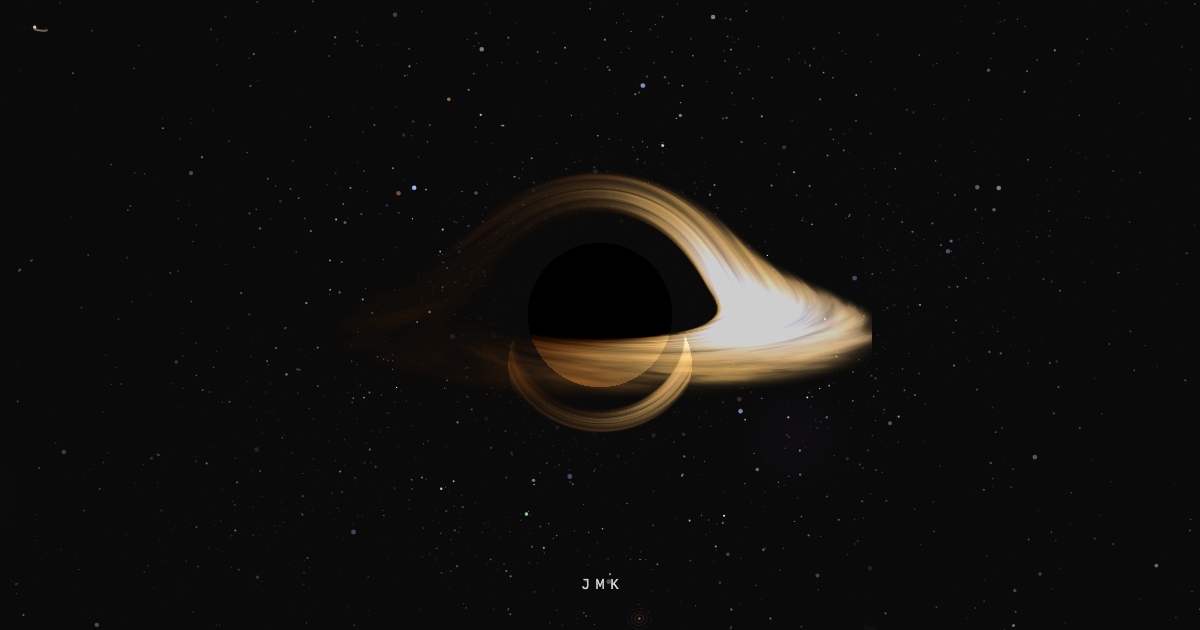
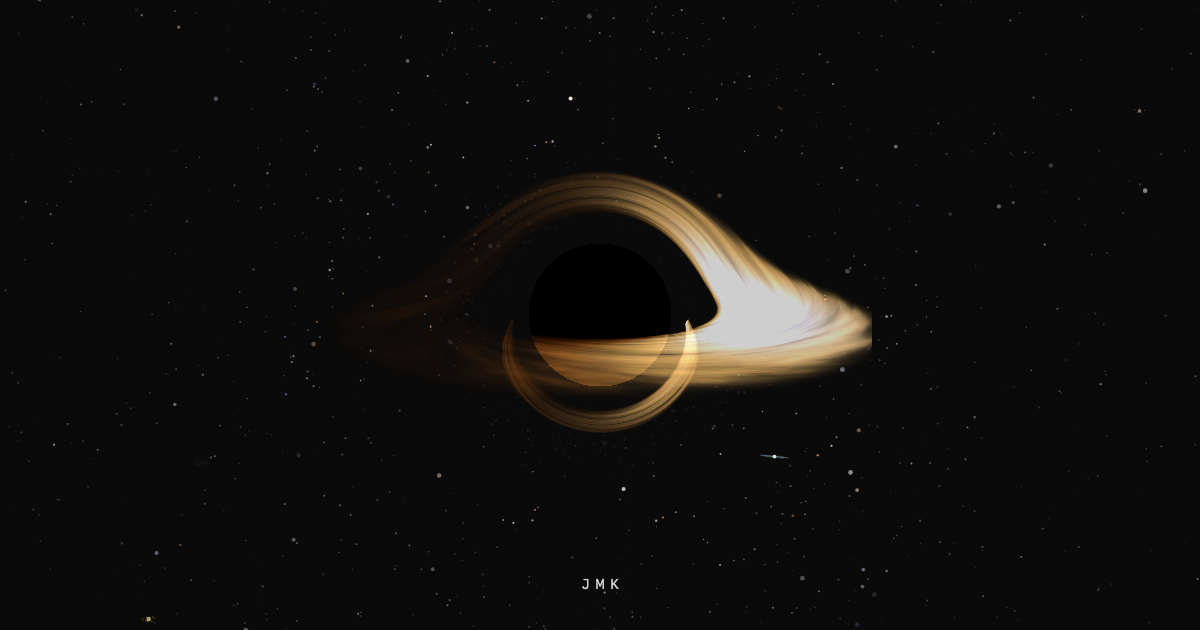
fixed graining

diff --git a/index.html b/index.html
@@ -278,9 +278,10 @@
                 uniform float uPitch;
                 uniform float uFlicker;
 
-                const int   STEPS    = 200;
+                const int   STEPS    = 300;
                 const float DISK_IN  = 3.0;
                 const float DISK_OUT = 8.0;
+                const float FLOW_P   = 40.0; // seconds per advection cycle — JS wraps uTime to this
 
                 float hash(vec2 p){ p = fract(p * vec2(123.34, 456.21)); p += dot(p, p + 45.32); return fract(p.x * p.y); }
                 float vnoise(vec2 p){
@@ -303,17 +304,31 @@
                     return c;
                 }
 
-                void diskSample(float r, float ang, float g, inout vec3 col, inout float transmit){
+                void diskSample(float r, float ang, float g, float graze, inout vec3 col, inout float transmit){
                     if(r < DISK_IN || r > DISK_OUT) return;
                     float t = (r - DISK_IN) / (DISK_OUT - DISK_IN);
                     // Novikov–Thorne thin disk: T(r) ∝ [r⁻³(1 − √(r_in/r))]^¼ — zero torque
                     // (and zero T) at the ISCO, peak at r = 49/12 ≈ 4.08, ~r^(−3/4) tail.
                     // 476.6 normalizes the peak to T = 1.
                     float Temit = pow(max((1.0 - sqrt(DISK_IN / r)) / (r * r * r), 0.0) * 476.6, 0.25);
-                    float spin = uTime * (2.4 / pow(r, 1.5));
-                    float a2 = ang - spin;                                   // differential rotation
-                    vec2 nc = vec2(cos(a2), sin(a2)) * (3.0 + r * 0.4) + vec2(r * 0.9, 0.0); // seamless around the ring
-                    float n = fbm(nc);
+                    float rate = 2.4 / pow(r, 1.5);                          // Keplerian Ω(r), differential rotation
+                    // Flow-noise advection: two decorrelated turbulence streams, each advected
+                    // for one bounded cycle and crossfaded out exactly where the other resets.
+                    // A raw uTime·Ω angle grows unboundedly and overflows fp32 sin/cos range
+                    // reduction within the hour — the disk dissolves into per-pixel grain.
+                    float ph1 = fract(uTime / FLOW_P);
+                    float ph2 = fract(uTime / FLOW_P + 0.5);
+                    float w = abs(2.0 * ph1 - 1.0);                          // 0 → stream 1, 1 → stream 2
+                    float a1 = ang - ph1 * FLOW_P * rate;
+                    float a2 = ang - ph2 * FLOW_P * rate;
+                    vec2 nc1 = vec2(cos(a1), sin(a1)) * (3.0 + r * 0.4) + vec2(r * 0.9, 0.0);        // seamless around the ring
+                    vec2 nc2 = vec2(cos(a2), sin(a2)) * (3.0 + r * 0.4) + vec2(r * 0.9 + 23.7, 11.3); // decorrelated domain
+                    float nf = mix(fbm(nc1), fbm(nc2), w);
+                    nf = 0.47 + (nf - 0.47) / sqrt(w * w + (1.0 - w) * (1.0 - w)); // keep contrast through the blend
+                    // A grazing ray slices a long path through the disk, so its single-point
+                    // sample should average the turbulence — blend toward the fbm mean to
+                    // kill edge-on speckle without touching face-on detail.
+                    float n = mix(0.47, nf, graze);
                     float dens = pow(0.35 + 0.65 * n, 1.4);
                     dens *= smoothstep(0.0, 0.30, 1.0 - t);                  // soft outer rim
                     // Observed temperature is the Doppler+gravity-shifted one; bolometric
@@ -350,7 +365,10 @@
                         float r = sqrt(r2);
                         if(r < 1.0){ horizon = true; break; }
                         if(r > 12.0 && dot(pos, dir) > 0.0) break;
-                        float dt = clamp(0.022 * r, 0.02, 0.45);
+                        // Refine steps near the photon sphere (r = 1.5): winding rays are
+                        // what build the photon ring, and coarse steps band-alias them.
+                        float dt = clamp(0.022 * r, 0.02, 0.45)
+                                 * mix(0.3, 1.0, smoothstep(0.0, 1.5, abs(r - 1.5)));
                         vec3 acc = -1.5 * h2 * pos / pow(r2, 2.5);
                         vec3 npos = pos + dir * dt;
                         if(pos.y * npos.y < 0.0){
@@ -364,10 +382,12 @@
                                 // the Doppler-free part reduces to the textbook √(1−3M/r).
                                 float beta = inversesqrt(2.0 * (cr - 1.0));
                                 vec3 vhat = normalize(vec3(-cpz.z, 0.0, cpz.x));
-                                float mu = dot(vhat, -normalize(dir));       // cos angle, emitter velocity → escaping photon
+                                vec3 nd = normalize(dir);
+                                float mu = dot(vhat, -nd);                   // cos angle, emitter velocity → escaping photon
                                 float g = sqrt(max(1.0 - 1.0 / cr, 0.0)) * sqrt(1.0 - beta * beta) / (1.0 - beta * mu);
                                 float ang = atan(cpz.z, cpz.x);
-                                diskSample(cr, ang, g, col, transmit);
+                                float graze = clamp(abs(nd.y) * 8.0, 0.0, 1.0); // 0 = edge-on slice, 1 = clean crossing
+                                diskSample(cr, ang, g, graze, col, transmit);
                             }
                         }
                         dir += acc * dt;
@@ -730,9 +750,15 @@
             dtF = Math.min((now - lastFrameT) / (1000 / 60), 4); // clamp tab-switch gaps
             lastFrameT = now;
             if (resetting) {
-                rotX += (12 * DEG - rotX) * (1 - Math.pow(0.88, dtF));
-                if (Math.abs(rotX - 12 * DEG) < 0.001) {
-                    rotX = 12 * DEG;
+                // Ease the hole and the star field home together — snapping one while
+                // easing the other visibly unregisters the scene mid-reset.
+                const k = 1 - Math.pow(0.88, dtF);
+                rotX += (12 * DEG - rotX) * k;
+                rotY -= rotY * k;
+                userDragX -= userDragX * k;
+                userDragY -= userDragY * k;
+                if (Math.abs(rotX - 12 * DEG) < 0.001 && Math.abs(userDragX) < 0.001 && Math.abs(userDragY) < 0.001) {
+                    rotX = 12 * DEG; rotY = 0; userDragX = 0; userDragY = 0;
                     resetting = false;
                 }
             }
@@ -744,7 +770,9 @@
                           + 0.015 * Math.sin(now * 0.0137 + 2.7);
             bhUniforms.uYaw.value = rotY;
             bhUniforms.uPitch.value = rotX;
-            bhUniforms.uTime.value = now * 0.001;
+            // The shader's disk advection is FLOW_P-periodic (40 s); wrapping here keeps
+            // the fp32 uniform exact no matter how long the page stays open.
+            bhUniforms.uTime.value = (now * 0.001) % 40.0;
             bhUniforms.uFlicker.value = flicker;
 
 
@@ -823,8 +851,7 @@
                 const dist = Math.sqrt((e.clientX - cx) ** 2 + (e.clientY - cy) ** 2);
                 const holeR = rect.width * 0.16; // true shadow ≈ 0.152 + a little touch padding
                 if (dist < holeR) {
-                    resetting = true;
-                    userDragX = 0; userDragY = 0;
+                    resetting = true; // animate() eases hole + stars home together
                 }
             }
         });
@@ -884,6 +911,7 @@
                     opacity: 0.06 + Math.random() * 0.18,
                     twinkleOffset: Math.random() * 1000,
                     rgb: spec.rgb, cls: spec.cls,
+                    band: true, // too faint to anchor events — skipped by pickRandomVisibleStar
                 });
             }
         }
@@ -1399,7 +1427,7 @@
                 if (layer.stars.length === 0) continue;
                 const si = Math.floor(Math.random() * layer.stars.length);
                 const star = layer.stars[si];
-                if (star.dead) continue;
+                if (star.dead || star.band) continue;
                 const p = projectStar(star, layer.speed, viewRotX, viewRotY);
                 if (p && p.x > 50 && p.x < w - 50 && p.y > 50 && p.y < h - 50) {
                     return { layerIdx: li, starIdx: si, star };
@@ -2999,7 +3027,10 @@
             }
         }
 
-        generateStars();
+        // Anoint Sol and the megastructure hosts. generateStars() rebuilds the sky from
+        // scratch, so this must re-run after every regeneration (initial load AND resize)
+        // or Sol loses its flag and the structures rebind to random faint stars.
+        function assignSpecialStars() {
         // Assign one star as the Pale Blue Dot (Sol)
         paleBlueDotStar = { layerIdx: 0, starIdx: 42 }; // near layer, star #42
         if (starLayers[0].stars.length > 42) {
@@ -3052,9 +3083,16 @@
             aldersonStar = { layerIdx: 0, starIdx: 250 };
             starLayers[0].stars[250].size = 1.6; starLayers[0].stars[250].opacity = 0.6;
         }
+        }
 
+        generateStars();
+        assignSpecialStars();
         drawStars(true, 0, 0, 0);
-        window.addEventListener('resize', () => { generateStars(); drawStars(document.body.classList.contains('dark-mode'), userDragX, userDragY, performance.now()); });
+        window.addEventListener('resize', () => {
+            generateStars();
+            assignSpecialStars();
+            drawStars(document.body.classList.contains('dark-mode'), userDragX, userDragY, performance.now());
+        });
 
         // ── Sci-fi reticle cursor with spaghettification ──
         const cursorCanvas = document.createElement('canvas');
